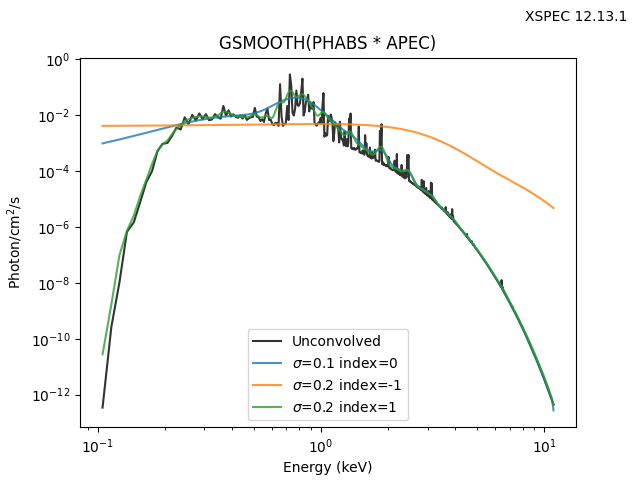
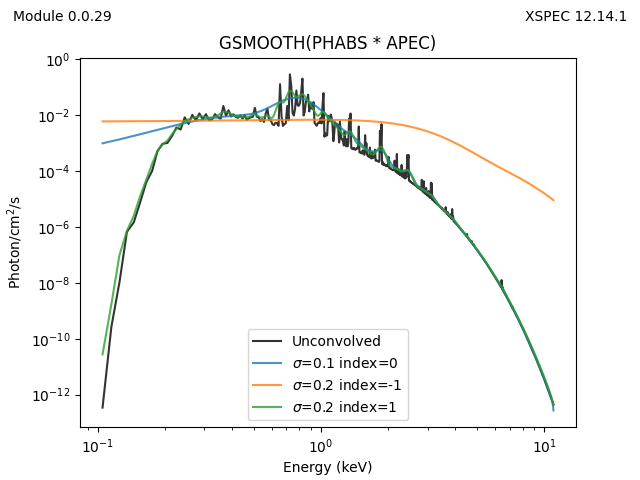
Update documnetation for XSPEC 12.14.1
The code builds for XSPEC 12.14.1 (and so presumably 12.14.0)
so update the documentation. As part of this, remove some of the
references to older XSPEC versions as they are not useful.

Add scripts/report_models.py to auto-generate the text needed for
the README. The code repeats logic in helpres/template.py which
could be absracted out (maybe included in the '__init__.py' file
directly), but leave that for a later revision.

diff --git a/scripts/report_models.py b/scripts/report_models.py
@@ -1,0 +1,102 @@
+#!/usr/bin/env python
+
+"""
+
+Usage:
+
+  ./report_models.py <model.dat>
+
+Aim:
+
+List the supported and unsupported models for the given XSPEC
+library. This repeats logic in helpers/template.py, so it really
+should use some common code.
+
+It also requires
+
+    pip install parse-xspec
+
+even though this is not needed to run `xspec_models_cxc`.
+
+"""
+
+import sys
+
+from parse_xspec.models import parse_xspec_model_description
+
+import xspec_models_cxc as x
+
+# Try to access the model file
+#
+allmodels = parse_xspec_model_description(x._model_dat)
+if len(allmodels) == 0:
+    sys.stderr.write("Unable to parse model.dat file: {x._model_dat}")
+    sys.exit(1)
+
+print(f"XSPEC version: {x.get_version()}\n")
+nmodels = len(x.list_models())
+print(f"Number of models: {nmodels}\n")
+
+print("| Type           | Total  | Supported |")
+print("| -------------- | ------ | --------- |")
+
+ntotal_all = 0
+nsupported_all = 0
+
+for (name, enum) in [("additive", x.ModelType.Add),
+                     ("multiplicative", x.ModelType.Mul),
+                     ("convolution", x.ModelType.Con),
+                     ("acn", None)]:
+
+    if enum is None:
+        nsupported = 0
+        ntotal = len([m for m in allmodels if m.modeltype == "Acn"])
+    else:
+        nsupported = len(x.list_models(modeltype=enum))
+        ntotal = len([m for m in allmodels if m.modeltype == enum.name])
+
+    ntotal_all += ntotal
+    nsupported_all += nsupported
+    print(f"| {name:14s} | {ntotal:6d} | {nsupported:9d} |")
+
+print("| -------------- | ------ | --------- |")
+
+ntotal_all2 = 0
+nsupported_all2 = 0
+
+for name, lname in [("C++", "C++ style"),
+                    ("C", "C style"),
+                    ("FORTRAN sp", "Fortran - single precision"),
+                    ("FORTRAN dp", "Fortran - double precision")]:
+
+    ntotal = len([m for m in allmodels if m.language == lname])
+
+    # ugh
+    if lname == "C++ style":
+        language = x.LanguageStyle.CppStyle8
+    elif lname == "C style":
+        language = x.LanguageStyle.CStyle8
+    elif lname == "Fortran - single precision":
+        language = x.LanguageStyle.F77Style4
+    elif lname == "Fortran - double precision":
+        language = x.LanguageStyle.F77Style8
+    else:
+        assert False
+
+    nsupported = len(x.list_models(language=language))
+
+    ntotal_all2 += ntotal
+    nsupported_all2 += nsupported
+    print(f"| {name:14s} | {ntotal:6d} | {nsupported:9d} |")
+
+print("| -------------- | ------ | --------- |\n")
+
+print(f"Number skipped:   {ntotal_all - nsupported_all}\n")
+
+if ntotal_all == ntotal_all2 and nsupported_all == nsupported_all2:
+    sys.exit(0)
+
+sys.stderr.write("Error summing models\n")
+sys.stderr.write("  ntotal     = {ntotal_all} {ntotal_all2}\n")
+sys.stderr.write("  nsupported = {nsupported_all} {nsupported_all2}\n")
+sys.exit(1)

diff --git a/helpers/template.py b/helpers/template.py
@@ -199,7 +199,7 @@ def apply_compiled(models, template, outfile):
         }
 
 
-def apply_python(models, template, xspec_version, outfile):
+def apply_python(modelfile, models, template, xspec_version, outfile):
     """Convert the template for the Python code.
 
     xspec_version : str
@@ -278,6 +278,7 @@ def apply_python(models, template, xspec_version, outfile):
     with template.open(mode='rt') as ifh:
         out = ifh.read()
 
+        out = replace_term(out, '@@MODELDAT@@', str(modelfile))
         out = replace_term(out, '@@PYINFO@@', ',\n'.join(mstrs))
         out = replace_term(out, '@@XSPECVER@@', xspec_version)
 
@@ -294,7 +295,7 @@ def apply(modelfile, xspec_version, out_dir):
     Parameters
     ----------
     modelfile : pathlib.Path
-        The he model.dat file.
+        The model.dat file.
     xspec_version : str
         The XSPEC library we are building against, including the patch
         level.
@@ -319,7 +320,7 @@ def apply(modelfile, xspec_version, out_dir):
 
     allmodels = parse_xspec_model_description(modelfile)
     if len(allmodels) == 0:
-        sys.stderr.write(f'ERROR: unable to parse model.fat file: {modelfile}\n')
+        sys.stderr.write(f'ERROR: unable to parse model.dat file: {modelfile}\n')
         sys.exit(1)
 
     # Filter to the ones we care about
@@ -357,7 +358,7 @@ def apply(modelfile, xspec_version, out_dir):
     out_dir = out_dir / 'xspec_models_cxc'
     outfile = out_dir / filename
     out_dir.mkdir(exist_ok=True)
-    apply_python(models, template, xspec_version, outfile)
+    apply_python(modelfile, models, template, xspec_version, outfile)
 
     # It looks like info['models'] does not contain repeated values.
     #

diff --git a/setup.py b/setup.py
@@ -1,10 +1,14 @@
 """Build the xspec_models_cxc module
 
 The interface is auto-generated based on the model.dat file from the
-HEASARC installation. The HEADAS environment variable must be set.
+HEASARC installation. The HEADAS environment variable must be set and
+the library environment set up to point to all the required libraries
+(so, it is likely that `source $HEADAS/headas-init.sh` or equivalent
+has been performed).
 
-At present only XSPEC 12.12.1 to 12.13.1 is supported (and the
-12.12.1/12.13.0 build is untested), and the build is very fragile.
+At present only XSPEC 12.12.1 to 12.14.1 is supported (newer versions
+may work and older versions see limited to no testing), and the build
+is very fragile (for instance, there has been no macOS testing).
 
 """
 
@@ -30,14 +34,16 @@ from helpers import template
 from helpers.identify_xspec import get_xspec_macros
 
 
-__version__ = "0.0.28"
+__version__ = "0.0.29"
 
 # Check HEASARC is set up. The following does not provide a useful
 # message from 'pip install' so how do we make it more meaningful?
 #
 HEADAS = os.getenv('HEADAS')
 if HEADAS is None:
+    sys.stderr.write('##################################################\n')
     sys.stderr.write('ERROR: unable to find HEADAS environment variable.\n')
+    sys.stderr.write('##################################################\n')
     sys.exit(1)
 
 HEADAS = pathlib.Path(HEADAS)

diff --git a/template/__init__.py b/template/__init__.py
@@ -1,4 +1,4 @@
-#  Copyright (C) 2007, 2015-2018, 2019, 2020, 2021, 2023
+#  Copyright (C) 2007, 2015-2021, 2023-2024
 #  Smithsonian Astrophysical Observatory
 #
 # SPDX-License-Identifier: GPL-3.0-or-later
@@ -184,7 +184,7 @@ class XSPECParameter:
     default: float
     units: Optional[str] = None
     frozen: bool = False
-    # Would it be better to just have limits = [hardmin, softmni, softmax, hardmax]?
+    # Would it be better to just have limits = [hardmin, softmin, softmax, hardmax]?
     softmin: Optional[float] = None
     softmax: Optional[float] = None
     hardmin: Optional[float] = None
@@ -207,6 +207,10 @@ class XSPECModel:
     can_cache: bool = True
 
 
+# The model.dat file used to create this interface
+_model_dat = "@@MODELDAT@@"
+
+# Information on the supported models.
 _info = {
 @@PYINFO@@
     }

diff --git a/scripts/smaug.py b/scripts/smaug.py
@@ -7,13 +7,19 @@ from matplotlib import pyplot as plt
 import xspec_models_cxc as x
 
 vxspec = x.get_version()
-print(f"Version: {vxspec}")
+print(f"XSPEC version:  {vxspec}")
+print(f"Module version: {x.__version__}")
 
 def add_version():
     plt.text(0.98, 0.98, f"XSPEC {vxspec}",
              transform=plt.gcf().transFigure,
              verticalalignment="top",
              horizontalalignment="right")
+
+    plt.text(0.02, 0.98, f"Module {x.__version__}",
+             transform=plt.gcf().transFigure,
+             verticalalignment="top",
+             horizontalalignment="left")
 
 
 x.cosmology(h0=70, lambda0=0.73, q0=0)

diff --git a/scripts/example.py b/scripts/example.py
@@ -9,13 +9,19 @@ import xspec_models_cxc as x
 x.chatter(0)  # Hide the screen messages
 
 vxspec = x.get_version()
-print(f"Version: {vxspec}")
+print(f"XSPEC version:  {vxspec}")
+print(f"Module version: {x.__version__}")
 
 def add_version():
     plt.text(0.98, 0.98, f"XSPEC {vxspec}",
              transform=plt.gcf().transFigure,
              verticalalignment="top",
              horizontalalignment="right")
+
+    plt.text(0.02, 0.98, f"Module {x.__version__}",
+             transform=plt.gcf().transFigure,
+             verticalalignment="top",
+             horizontalalignment="left")
 
 
 egrid = np.arange(0.1, 11, 0.01)

diff --git a/README.md b/README.md
@@ -20,10 +20,11 @@ developed for Sherpa and the CIAO contrib packages.
 
 ## How to build
 
-You need to have XSPEC 12.12.1 to 12.13.1 installed, have the `HEADAS`
-environment variable set up, and hope that your XSPEC build uses the
-same versions of the libraries as mine does (since there's currently
-no way to query XSPEC for these vaues programatically).
+You need to have XSPEC 12.12.1 to 12.14.1 installed (it may work with
+newer versions but this depends on how stable the XSPEC build is),
+have the `HEADAS` environment variable set up and probably have also
+sourced the `$HEADAS/headas-init.sh` or `$HEADAS/headas-init.csh`
+script.
 
 With this you can
 
@@ -48,63 +49,26 @@ used automatically. Neither is required to use the compiled module.
 I am not putting this on [PyPI](https://pypi.org/) yet as there are a
 lot of things to work out first!
 
-## Notes (XSPEC 12.13.1)
+## Notes (XSPEC 12.14.1)
 
-Untested.
+Number of models: 293
 
 | Type           | Total  | Supported |
 | -------------- | ------ | --------- |
-| additive       |    148 |       148 |
-| multiplicative |     64 |        64 |
+| additive       |    203 |       203 |
+| multiplicative |     67 |        67 |
 | convolution    |     23 |        23 |
 | acn            |      1 |         0 |
-| C++            |    138 |       138 |
+| -------------- | ------ | --------- |
+| C++            |    197 |       196 |
 | C              |      8 |         8 |
 | FORTRAN sp     |     86 |        86 |
 | FORTRAN dp     |      3 |         3 |
-
-## Notes (XSPEC 12.12.1)
-
-Untested.
-
-I think these are the numbers, but I'm not sure how I generated this
-table for 12.12.0!
-
-| Type           | Total  | Supported |
 | -------------- | ------ | --------- |
-| additive       |    148 |       148 |
-| multiplicative |     64 |        64 |
-| convolution    |     22 |        22 |
-| acn            |      1 |         0 |
-| C++            |    137 |         ? |
-| C              |      8 |         8 |
-| FORTRAN sp     |     86 |        86 |
-| FORTRAN dp     |      3 |         3 |
 
-## Notes (XSPEC 12.12.0)
+Number skipped:   1
 
-There are 232 models in the heasoft-6.29 model.dat file, and this
-module provides access to 231 of them (it's only the `pileup` model,
-which is the one `acn` type) that is not supported.
-
-| Type           | Total  | Supported |
-| -------------- | ------ | --------- |
-| additive       |    148 |       148 |
-| multiplicative |     61 |        61 |
-| convolution    |     22 |        22 |
-| acn            |      1 |         0 |
-| C++            |    135 |       134 |
-| C              |      8 |         8 |
-| FORTRAN        |     89 |        89 |
-
-I had to
-
-```
-% export LD_LIBRARY_PATH=$HEADAS/lib
-```
-
-in order to use the module. I believe it depends on how you built the
-XSPEC model library (I am using a full XSPEC installation).
+The `pileup` model is unsupported (as it uses the "acn" model type).
 
 ## Quick run through
 
@@ -129,7 +93,7 @@ def add_version():
              transform=plt.gcf().transFigure,
              verticalalignment="top",
              horizontalalignment="right")
-    
+
 
 egrid = np.arange(0.1, 11, 0.01)
 emid = (egrid[:-1] + egrid[1:]) / 2
@@ -195,7 +159,8 @@ plt.savefig('example-convolution.png')
 The screen output is just
 
 ```
-Version: 12.13.1
+XSPEC version:  12.14.1
+Module version: 0.0.29
 ```
 
 and the plots are
@@ -1337,7 +1302,7 @@ module does some of the following:
 
   Note that we currently bind to the correct versions for FORTRAN
   (single precision) and C models, but the C++ models (which, in
-  XSPEC 12.12.0 is 134 of the 231 models we support) are handled
+  XSPEC 12.14.1 is 197 of the 293 models we support) are handled
   using the C interface. To see if this is a problem I have added
   (in version 0.0.24) the RealArray interface discussed above,
   but it doesn't seem to make much difference.
